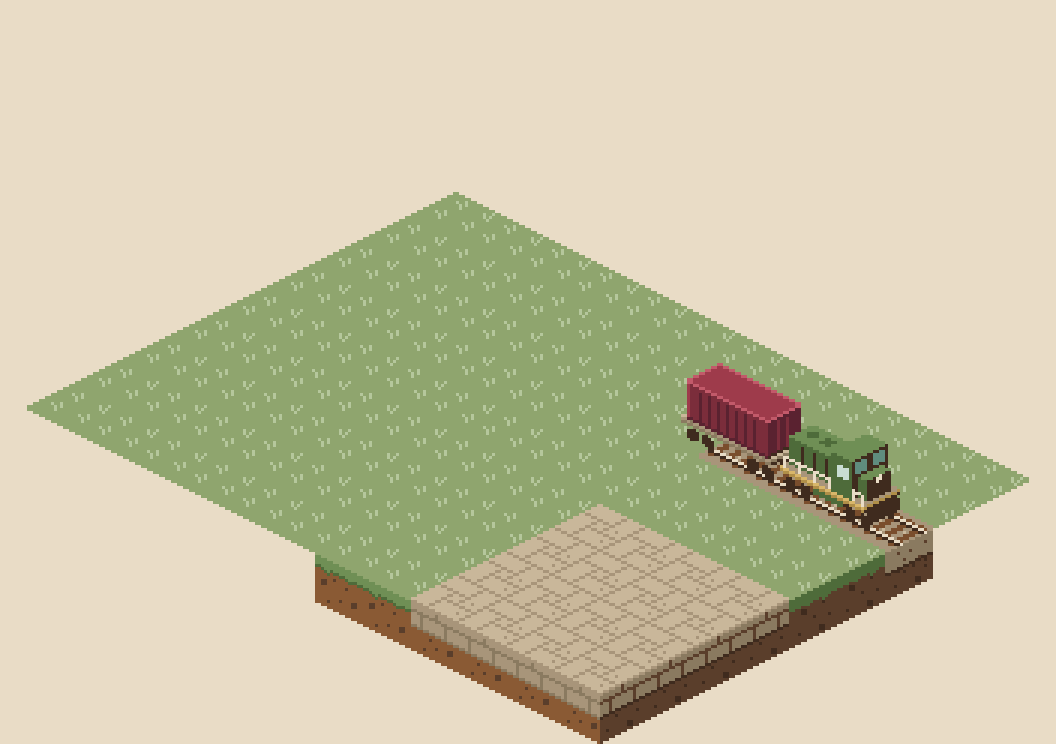
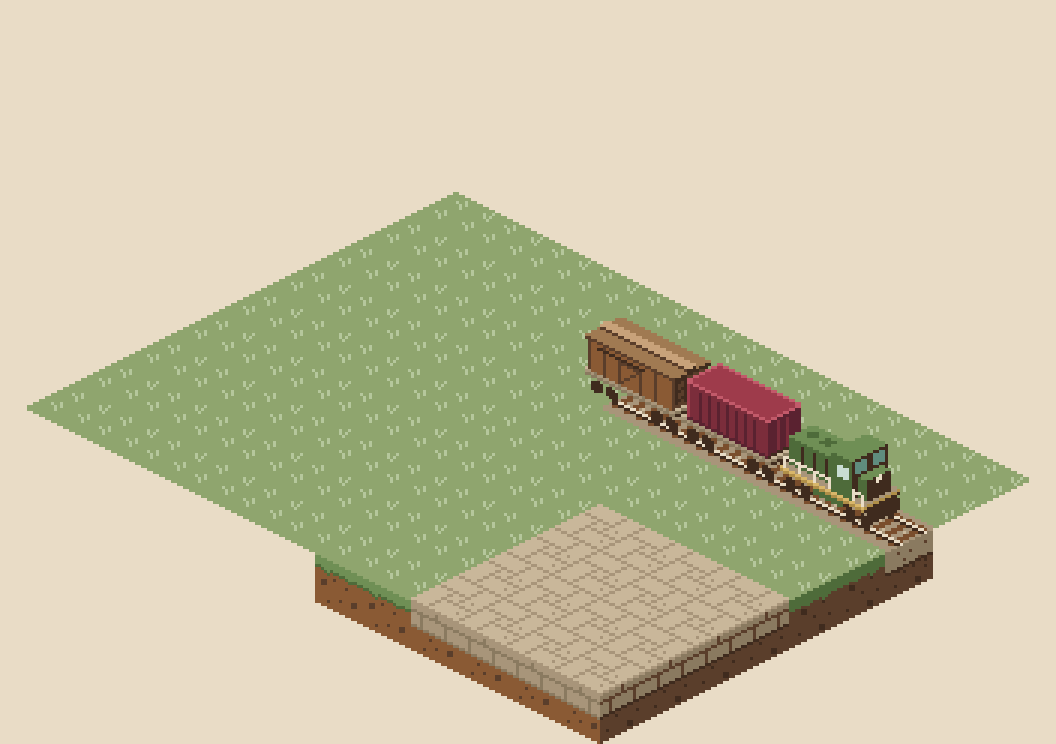
art: boxcar for the island level up's train

Changed region(s): [[0.5312, 0.4328, 0.6875, 0.6183]]

diff --git a/docs/intents/2026-10-island-level-up/art-brief.md b/docs/intents/2026-10-island-level-up/art-brief.md
@@ -103,3 +103,4 @@ A pose is its own object named `<name>-<pose>`, with the same anchor: `extends` 
 - `track` is a flat `path-3` ballast block (col axis): rails 8 units apart at v ±4, rail head at z = 1, about 1.3 KB per tile, laid over a ground cube like `path`. `block-rail` keeps the yard's 8-row band depth with a ballast band and a `soil-4` last row at row 7.
 - `flatcar` is 42×27, anchor [21, 19] at its footprint's ground centre: deck 30 units long and 12 wide, top at z = 9, wheel discs at u ±7.5 and ±12.5 on the near rail, `soil-4` couplers 2 units long at both ends. The `container` goes at the flatcar's point + (0, −9).
 - `locomotive` is 40×34, anchor [20, 26], dark green (`grass-3`/`grass-4`, `soil-4` front) with a `gold` frame stripe: 28 units long, 12 wide, cab top at z 22, its frame at the flatcar's deck height (z 7–9), the same wheels and couplers. A `flatcar` coupled behind it sits at the locomotive's px + (−32, −16), two tiles up-left along the col axis.
+- `boxcar` is 42×38, anchor [21, 30], brown (`soil-2` sides, `wood-2` roof, `wood-1` walkway) on the flatcar's own frame, roof top at z 21, level with the container; it couples behind a `flatcar` at the flatcar's px + (−32, −16). The train is boxcar, flatcar with container, locomotive, two tiles apart along the col axis.
